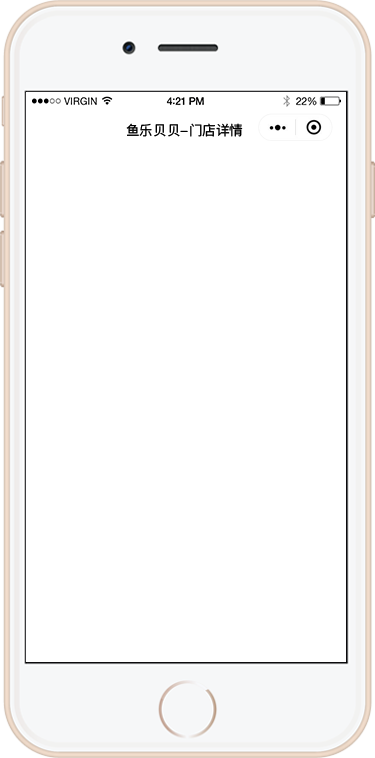
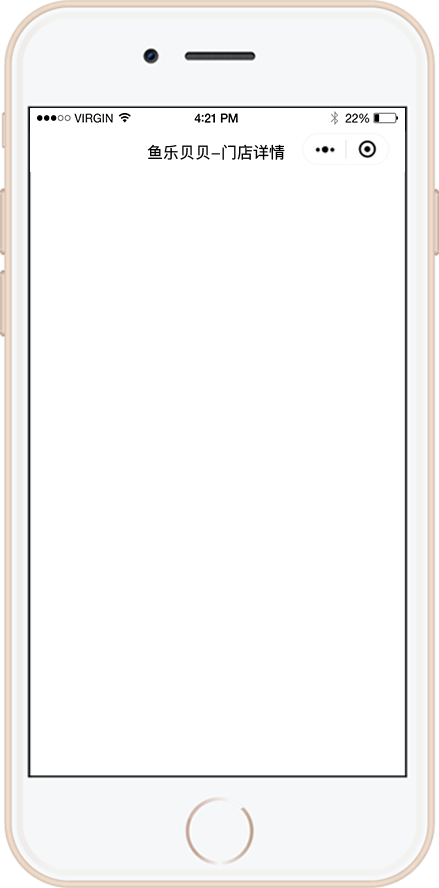
iPhone预览开发完毕

diff --git a/src/app/modules/wechat/wechat-program/store-effect/store-effect.component.scss b/src/app/modules/wechat/wechat-program/store-effect/store-effect.component.scss
@@ -1,35 +1,47 @@
-.store-effect{
-	width: 320px;
-	height: 512px;
+.store-effect {
+	width: 375px;
+	height: 604px;
+	padding-bottom: 50px;
 	background: #f6f6f8;
 	overflow: auto;
 	-webkit-overflow-scrolling: touch;
+	.store-bottom-footer {
+		width: 375px;
+		color:#fff;
+		font-size: 17px;
+		line-height: 50px;
+		text-align: center;
+		background: #FF839A;
+		position: absolute;
+		bottom: 112px;
+		z-index: 9;
+	}
 }
 
 nz-carousel{
-	height: 160px;
+	height: 180px;
 	.slick-slide {
 		text-align: center;
-		height: 160px;
-		line-height: 160px;
+		height: 180px;
+		line-height: 180px;
 		background: #364d79;
 		overflow: hidden;
-	}	
+	}
 	h3 {
 		color: #fff;
 	}
 }
 
-.store-info-header{
+.store-info-header {
 	padding: 0 15px;
 	margin-bottom: 10px;
 	background: #fff;
-	& > h2{
+	& > h2 {
 		padding: 16px 0 12px;
 		font-size: 16px;
 		line-height: 1;
 
-		& > a{
+		& > a {
 			float: right;
 			line-height: 16px;
 			color:#FF839A;
@@ -37,34 +49,124 @@ nz-carousel{
 		}
 	}
 
-	& > div{
+	& > div {
 		padding-bottom:15px;
 		color:rgb(163, 163, 163);
 		font-size:13px;
 		line-height: 1;
 		overflow:hidden;
-		& > p{
+		& > p {
 			width: 240px;
 			float:left;
 			overflow:hidden;
 			white-space:nowrap;
 			text-overflow:ellipsis;
 		}
-		& > span{
+		& > span {
 			float: right;
 			color: #000;
 		}
 	}
 }
 
-.store-info-block{
+.store-info-block {
+	margin-bottom: 10px;
 	padding: 0 15px;
 	background: #fff;
 
-	& > h2{
+	& > h2 {
 		padding: 20px 0 15px;
 		font-size: 16px;
 		line-height: 1;
 		border-bottom: solid 1px rgb(232, 232, 232);
+	}
+
+	.block-conent {
+		& > div{
+			padding: 15px 0;
+			position: relative;
+			&:not(:first-child) {
+				border-top: dashed 1px rgb(232, 232, 232);
+			}
+
+			h4 {
+				padding-bottom: 10px;
+				color: #333;
+				font-size: 14px;
+				line-height: 1;
+			}
+			p {
+				width: 250px;
+				color: #999;
+				font-size: 12px;
+				line-height: 1;
+				overflow:hidden;
+				white-space:nowrap;
+				text-overflow:ellipsis;
+			}
+			div {
+				padding-right: 13px;
+				color: #333;
+				font-size: 14px;
+				line-height: 18px;
[1 lines of base64/hex data omitted]
+				background-size: 8px 13px;
+				position: absolute;
+				top: 24px;
+				right: 5px;
+				b {
+					font-size: 18px;
+					line-height: 1;
+					font-weight: normal;
+				}
+			}
+		}
+	}
+
+	.store-info-cell {
+		padding-bottom: 5px;
+		& > div {
+			padding: 8px 0 8px 18px;
+			color: #ccc;
+			font-size: 13px;
+			line-height: 30px;
+			overflow: hidden;
+			position: relative;
+			&:not(:last-child) {
+				border-bottom:solid 1px rgb(232, 232, 232);
+			}
+		}
+		.cell-head {
+			padding-left: 0;
+			& > div {
+				float: left;
+				&:not(:last-child) {
+					margin-right: 15px;
+				}
+			}
+			img {
+				display: inline-block;
+				width: 14px;
+				margin-right: 3px;
+				vertical-align: sub;
+			}
+		}
+
+		.cell-time{
+			background: url(http://ylbb-wxapp.oss-cn-beijing.aliyuncs.com/store/icon-time.png) no-repeat 0 16px;
+			background-size: 14px;
+		}
+		.cell-address{
+			background: url(http://ylbb-wxapp.oss-cn-beijing.aliyuncs.com/store/icon-marker.png) no-repeat 0 16px;
+			background-size: 14px;
+		}
+		.cell-map{
+			background: url(http://ylbb-wxapp.oss-cn-beijing.aliyuncs.com/store/icon-map.png) no-repeat 0 16px;
+			background-size: 14px;
+		}
+		.cell-tcc{
+			background: url(http://ylbb-wxapp.oss-cn-beijing.aliyuncs.com/store/icon-space.png) no-repeat 0 16px;
+			background-size: 14px;
+		}
 	}
 }

diff --git a/src/app/modules/wechat/wechat-program/store-effect/store-effect.component.html b/src/app/modules/wechat/wechat-program/store-effect/store-effect.component.html
@@ -31,4 +31,41 @@
 			</div>
 		</div>
 	</div>
+
+	<div class="store-info-block">
+		<h2>门店信息</h2>
+		<div class="store-info-cell">
+			<div class="cell-head">
+				<div>
+					<img src="http://ylbb-wxapp.oss-cn-beijing.aliyuncs.com/store/icon-rest.png" alt="家长休息区">
+					<span>家长休息区</span>
+				</div>
+				<div>
+					<img src="http://ylbb-wxapp.oss-cn-beijing.aliyuncs.com/store/icon-deposit.png" alt="寄存区">
+					<span>寄存区</span>
+				</div>
+				<div>
+					<img src="http://ylbb-wxapp.oss-cn-beijing.aliyuncs.com/store/icon-parking.png" alt="停车场">
+					<span>停车场</span>
+				</div>
+				<div>
+					<img src="http://ylbb-wxapp.oss-cn-beijing.aliyuncs.com/store/icon-wifi.png" alt="免费WIFI">
+					<span>免费WIFI</span>
+				</div>
+			</div>
+			<div class="cell-time">10:00:00-21:00:00 周一至周五</div>
+			<div class="cell-address">北京市朝阳区朝阳路79号甘露园物美-北京市朝阳区朝阳路79号甘露园物美</div>
+			<div class="cell-map">
+				<p>地铁：6号线 北京市朝阳区朝阳路79号甘露园物美</p>
+				<p>公交：648路，605路，419路北京市朝阳区朝阳路79号甘露园物美</p>
+			</div>
+			<div class="cell-tcc">
+				<p>名称：芳清园停车场</p>
+				<p>参考价格：1元/0.5小时(07:00-21:00)</p>
+				<p>地址：北京市海淀区黑泉路与龙岗路交叉口东南150米</p>
+			</div>
+		</div>
+	</div>
+
+	<div class="store-bottom-footer">预约体验</div>
 </div>

diff --git a/src/app/frames/menu/menu.component.html b/src/app/frames/menu/menu.component.html
@@ -9,6 +9,12 @@
         <span>Welcome</span>
       </span>
     </li>
+    <li nz-menu-item [routerLink]="['/home/wechat/wechat-program']">
+      <span title>
+        <i class="anticon anticon-mail"></i>
+        <span>微信小程序</span>
+      </span>
+    </li>
     <li nz-submenu>
       <span title>
         <i class="anticon anticon-appstore"></i>
@@ -16,11 +22,6 @@
       </span>
       <ul>
         <li nz-menu-item [routerLink]="['/home/customer/1']">全部客户</li>
-        <li nz-menu-item [routerLink]="['/home/customer/2']">新进客户</li>
-        <li nz-menu-item [routerLink]="['/home/customer/3']">已跟进客户</li>
-        <li nz-menu-item [routerLink]="['/home/customer/4']">预约分配客户</li>
-        <li nz-menu-item [routerLink]="['/home/customer/5']">体验办卡客户</li>
-        <li nz-menu-item [routerLink]="['/home/customer/6']">无效客户</li>
       </ul>
     </li>
   </ul>

diff --git a/src/app/modules/wechat/wechat-program/wechat-program.component.scss b/src/app/modules/wechat/wechat-program/wechat-program.component.scss
@@ -1,16 +1,16 @@
 .wechat-store-effect{
-    width: 375px;
-    height: 758px;
-    padding: 150px 29px 0 26px;
-    background: url(/assets/images/wechat/iphone-bg.png);
-    position: absolute;
-    top: 15px;
-    left: 15px;
+	width: 439px;
+	height: 888px;
+	padding: 172px 34px 0 30px;
+	background: url(/assets/images/wechat/iphone-bg.png);
+	position: absolute;
+	top: 15px;
+	left: 15px;
 }
 
 .wechat-store-content{
-    height: 600px;
-    margin-left: 380px;
-    padding-left: 20px;
-    border-left: dashed 2px #eee;
+	height: 600px;
+	margin-left: 480px;
+	padding-left: 20px;
+	border-left: dashed 2px #eee;
 }

diff --git a/src/app/frames/header/header.component.scss b/src/app/frames/header/header.component.scss
@@ -40,6 +40,7 @@
       vertical-align: middle;
     }
     img{
+      display: inline-block;
       width: 24px;
       height: 24px;
       border-radius: 50%;
